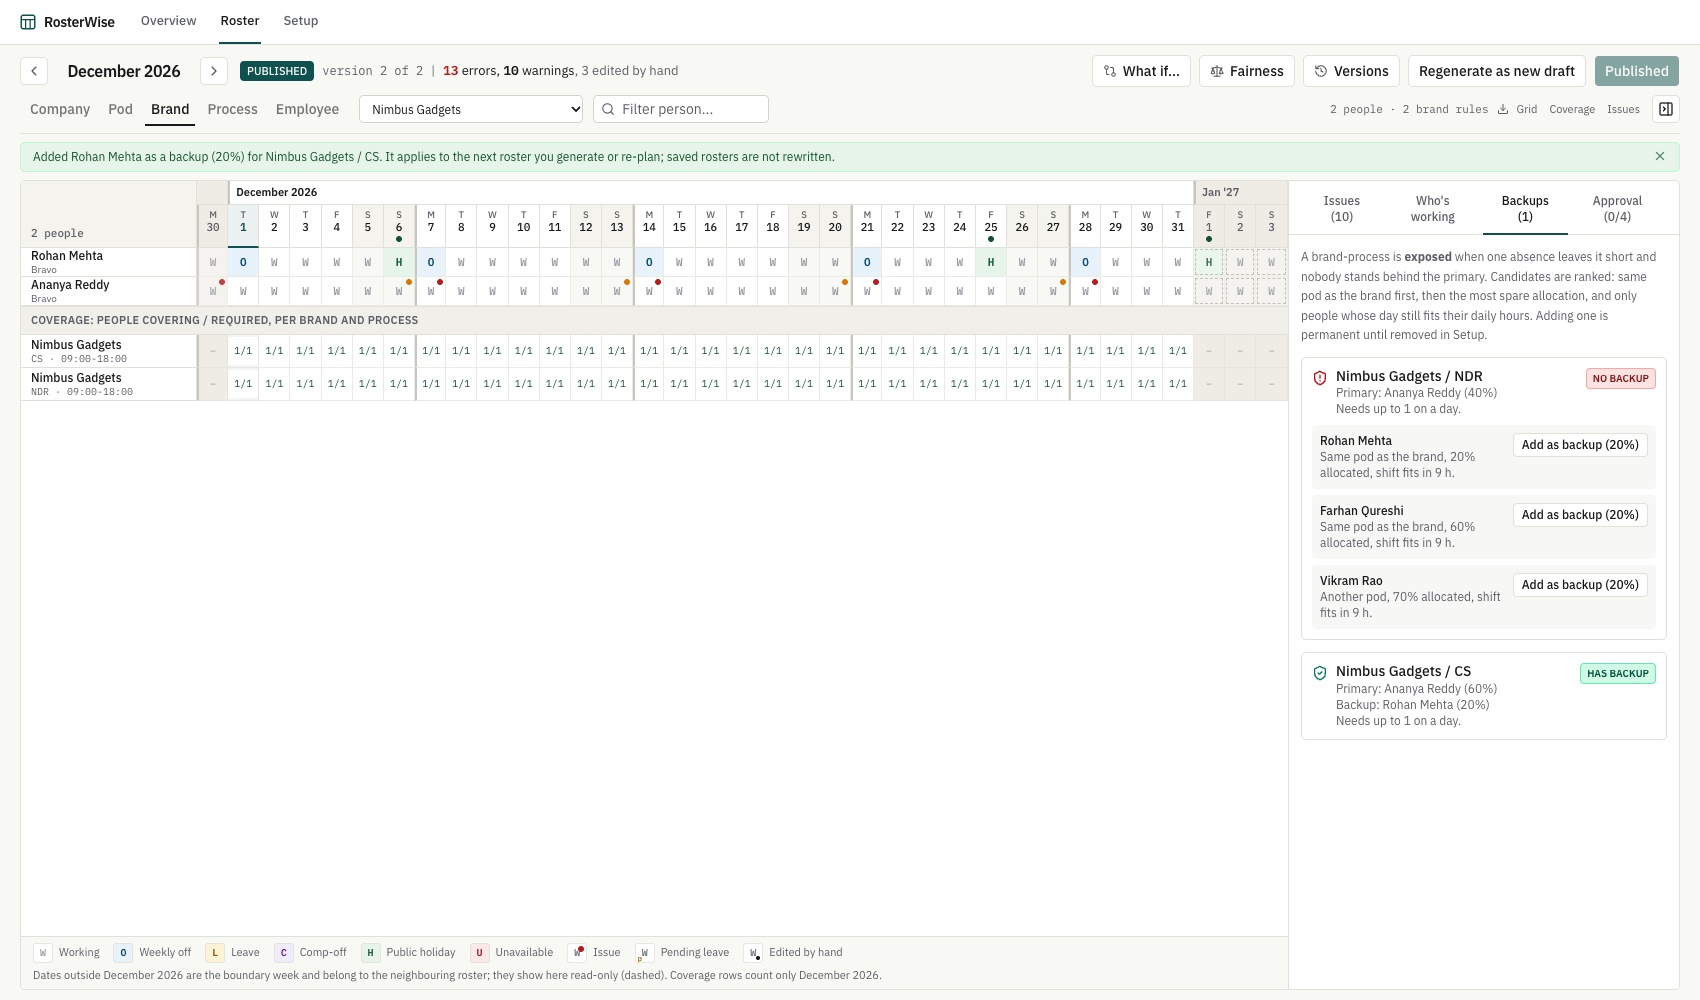
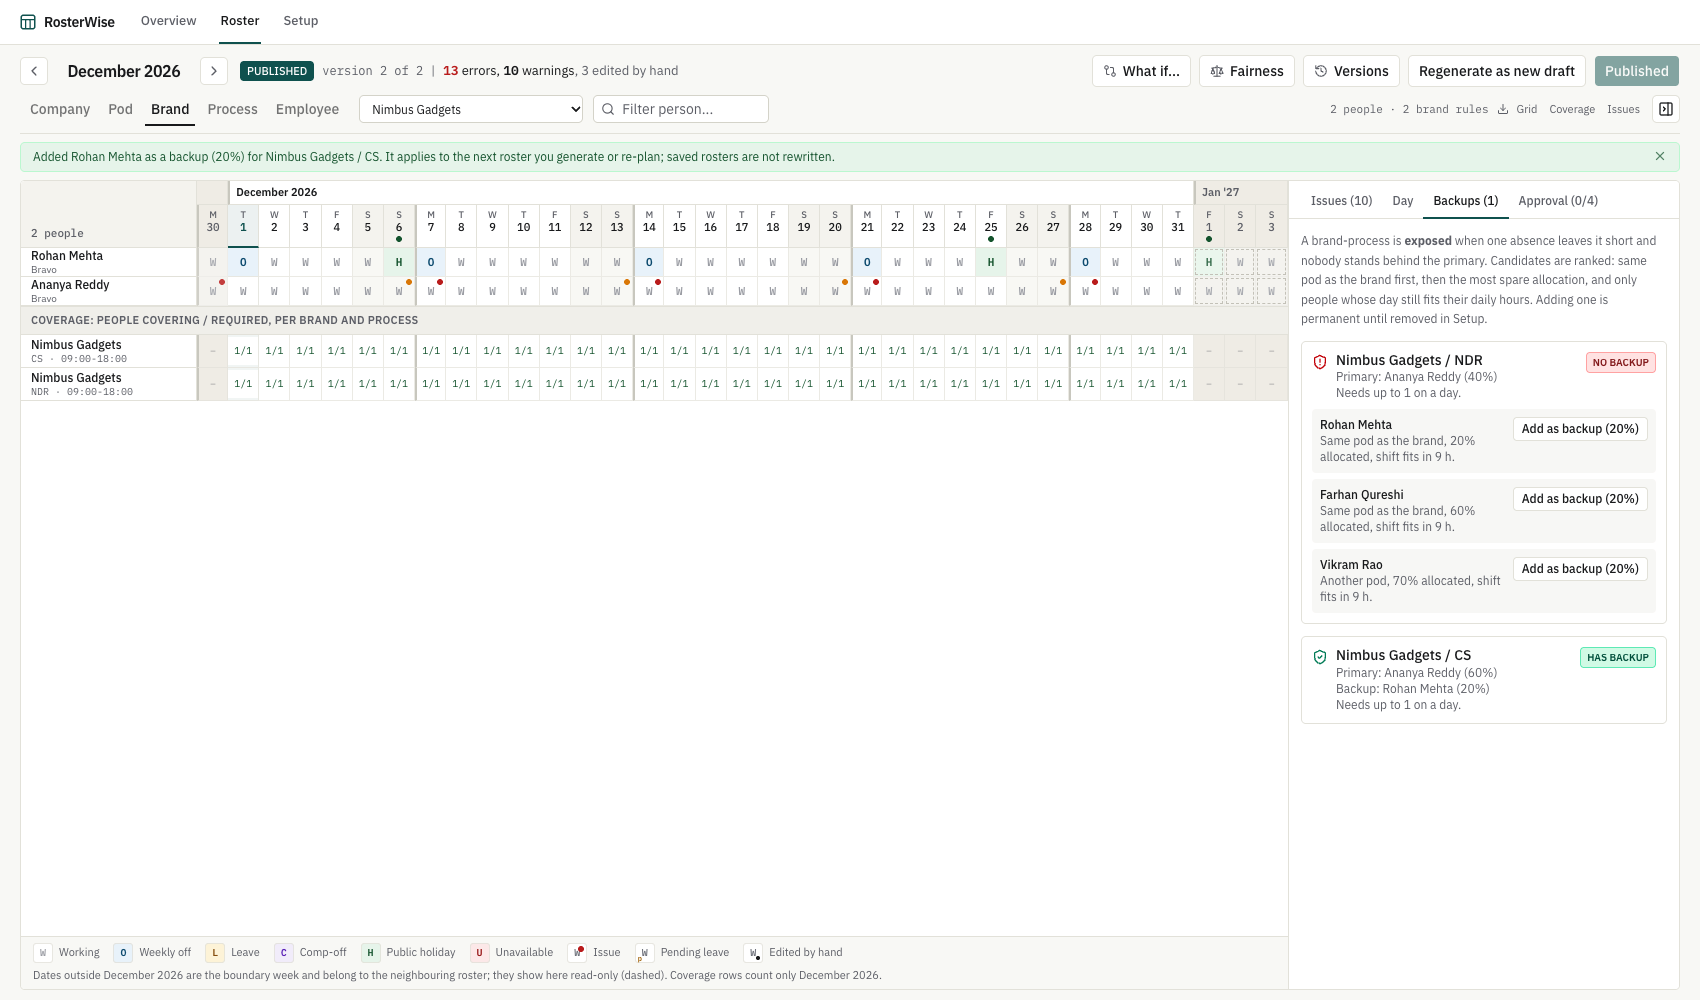
docs: P5 review request, assumptions 57 to 62, env example, refreshed walkthrough output

Changed region(s): [[0.7482, 0.186, 0.9976, 0.744], [0.9041, 0.62, 0.9976, 0.682]]

diff --git a/docs/reviews/REQUEST-P5.md b/docs/reviews/REQUEST-P5.md
@@ -1,0 +1,107 @@
+# Review request: P5 Optional features
+
+All six, in the CLAUDE.md order, plus the three P4 review notes (done first). Nothing was cut, and P6 has not been touched.
+
+## Done
+
+**P4 review notes (non-blocking, folded in):**
+
+1. **`REASSIGN_FROM_POD` is permanent, and now says so.** The confirm text names the person, brand-process and share and
+   says it "stays after this roster and changes future months until you remove it in Setup, Assignments". The assignment row
+   carries a note ("Added from roster 2026-12 v1 (suggestion REASSIGN_FROM_POD for ...). Remove it here if it is no longer
+   needed."), shown in a new Note column. Tested.
+2. **One counter definition.** The tab says `Issues (n)` and the filter says `n of m to review`, both counting ERROR and WARNING.
+3. **Regenerate on a published roster** reads "Regenerate as new draft" with "Creates draft version N+1; published version N
+   stays in history."
+4. The walkthrough docs now say to run it against `pnpm build && pnpm start` (done below).
+
+**P5.1 Backup recommendations.** `src/engine/backup.ts` (`backupReport`, pure): per brand-process, who is primary and backup,
+a status (`EXPOSED`, `SHARED`, `COVERED_BY_BACKUP`, `NO_STAFF`) and, for exposed ones, ranked candidates (same pod first, then
+least allocated, only active people with spare allocation whose day still fits their daily hours). A **Backups** tab on the
+roster page shows it for the brand-processes in the current view with a one-click "Add as backup (20%)".
+
+**P5.2 CSV export per view.** A read-only route (`/roster/<month>/export?what=grid|coverage|issues|fairness&kind=&value=`),
+linked from the view bar, built from the same view rules as the screen. RFC 4180 quoting and spreadsheet-formula
+protection (`=`, `+`, `-`, `@` prefixed with an apostrophe). Safe download names, validated query.
+
+**P5.3 Fair weekly-off distribution.** `src/engine/fairness.ts`, `/roster/<month>/fairness`: per person Sundays and public
+holidays worked and off, premium days, working days, and the spread over the people who **could** be asked (so closed-on-Sunday
+brands do not flatter it). CSV export of the same.
+
+**P5.4 Version comparison.** `compareVersions` + `/roster/<month>/versions`: pick any two versions, see changed cells and issues
+added or resolved (the What-if diff component, reused), in either direction.
+
+**P5.5 AI explanation.** An **Explain** button on each issue. The server sends only that issue's own fields to the Messages API
+(`claude-sonnet-5-5`), with the key in a header; with no key, on any error, a timeout (15 s) or an empty answer it returns the
+engine's deterministic explanation, labelled "Standard explanation" with the reason.
+
+**P5.6 Pod-lead approval.** An **Approval** tab: each pod's lead signs off their pod's part of a draft version; the sign-off is
+cleared if any of the pod's cells is edited and absent on a new version. Publishing requires every pod approved **only when
+`REQUIRE_POD_APPROVAL` is set** (off by default).
+
+Schema: `Assignment.note`, `PodApproval`. No change to the scheduling or validation rules.
+
+## How to verify
+
+```
+pnpm lint && pnpm format:check && pnpm typecheck && pnpm test && pnpm build
+pnpm db:seed && ANTHROPIC_API_KEY= pnpm start                  # terminal 1: production build, AI key blanked
+WALKTHROUGH_EXPLAIN=fallback pnpm walkthrough:p4               # terminal 2
+```
+
+## Verification output
+
+`pnpm lint`, `pnpm format:check`, `pnpm typecheck`, `pnpm build` exit 0. `pnpm test`: **19 files, 243 tests passed** (was 209).
+`pnpm walkthrough:p4` against the production server, from a fresh seed: `WALKTHROUGH OK`, `browser errors: 0`, 0 errors in the server
+log. Output: `docs/reviews/p4/walkthrough-output.txt`. New screenshots: `19-p5-backup-recommendations`, `20-p5-backup-added`,
+`21-p5-fairness`, `22-p5-version-comparison`, `23-p5-explain`, `24-p5-pod-approval` (in `docs/reviews/p4/`).
+
+What the walkthrough asserts for P5, in the browser:
+
+| Item | Asserted                                                                                                                                                                                                |
+| ---- | ------------------------------------------------------------------------------------------------------------------------------------------------------------------------------------------------------- |
+| 5.1  | Brand: Nimbus Gadgets CS reads "No backup"; one click adds Rohan Mehta as a backup; it now reads "Has backup"                                                                                           |
+| 5.2  | The export links carry the current view; grid, coverage and issues answer 200, `text/csv`, a descriptive file name, and the grid has 2 lines (header + Ananya), coverage 3 (header + 2 brand-processes) |
+| 5.3  | The fairness page lists 32 people with spreads, labels people with no brand open, and its CSV has 33 lines                                                                                              |
+| 5.4  | The versions page compares v2 with v1 by default, and both directions work from the form                                                                                                                |
+| 5.5  | Explain returns the standard explanation (key blanked), labelled as such                                                                                                                                |
+| 5.6  | A new January draft shows `Approval (0/4)`; one click approves Alpha and it reads `Approval (1/4)`                                                                                                      |
+
+### Are the new tests real? Mutation check
+
+Each change below was made on its own, the relevant tests run, then the file restored.
+
+| Mutation                                                      | Result                                                                                           |
+| ------------------------------------------------------------- | ------------------------------------------------------------------------------------------------ |
+| backup ranking ignores pod                                    | **survived my first tests**; added a case where another pod's person is less loaded; now 1 fails |
+| "exposed" off by one (`<` for `<=`)                           | 3 fail                                                                                           |
+| fairness stops treating a holiday Sunday as a holiday         | 3 fail                                                                                           |
+| CSV formula protection removed                                | 2 fail                                                                                           |
+| the AI request also sends an employee id                      | 1 fails (the test pins the exact set of keys)                                                    |
+| version comparison reads the two versions the wrong way round | 1 fails                                                                                          |
+| approval gate switched off                                    | 1 fails                                                                                          |
+| an edit no longer clears the pod's approval                   | 1 fails                                                                                          |
+
+## Deviations from CLAUDE.md
+
+- **P5.6 is not "required before publish" by default.** It is built and tested both ways, but the publish gate asks for it only when
+  `REQUIRE_POD_APPROVAL` is set, so the existing publish flow, its 40-odd tests and the demo are unchanged. Say if you want it on by default.
+- **The side-panel tab "Who's working" is now labelled "Day"** (with that as its tooltip) to fit four tabs on one line.
+- **`PodApproval` has no relation check that the approver is the pod lead.** There is no login to check against (see below).
+
+## Known gaps / risks (also ASSUMPTIONS 57 to 62)
+
+- **The live AI call was not exercised.** The tests inject `fetch` and pin the request (URL, headers, model, body keys); the
+  walkthrough ran with the key blanked. I did not spend your key or send even fictional issue text to an outside service without
+  being asked. One real call is a ten-second check once you want it.
+- **The AI action costs money on a public deployment.** A per-process cap of 10 calls a minute is a guard against a runaway
+  client, not cost control. **P6's passcode must guard `explainIssueAction`** (and I will make that part of the P6 test list).
+- **No approver identity.** The name in an approval is recorded, not verified; the P6 session supplies a server-side display name and
+  is where a "must match the pod lead" check belongs.
+- **Version comparison validates both versions with today's master data**, so an older version can read as having errors it was
+  not saved with (tested, ASSUMPTIONS 60). It compares plans under the same rules; it is not a snapshot of what each said.
+- **An added backup is permanent** until removed in Setup (noted on the row, ASSUMPTIONS 50 and 57). It applies to the next generation
+  or re-plan, not to saved rosters.
+- **Fairness counts "WORK" status**, so a backup-pool person rostered to work but covering nothing counts as working a Sunday.
+  They are labelled and left out of the spread, but they appear in the table.
+- Mobile and a full accessibility audit are still not done (as in P4).

diff --git a/docs/ASSUMPTIONS.md b/docs/ASSUMPTIONS.md
@@ -267,4 +267,40 @@ is recorded here as soon as it is made.
     never the only signal; markers: a dot for an issue on that day, `p` for pending leave (not applied), a small
     dot for an edit by hand.
 
+## Optional features (P5)
+
+57. **Backup recommendations (P5.1)** come from `backupReport` (engine, pure). A brand-process is EXPOSED when it has no
+    BACKUP and no more primaries than the most it ever needs on one day (so one absence is a gap), SHARED when there
+    are more primaries than that, COVERED_BY_BACKUP when a backup exists. Candidates (EXPOSED or unstaffed only) are
+    active people not already on it, with spare allocation (100 minus the sum of their assignments), whose daily
+    span including this shift fits their daily hours, ranked same pod as the brand first, then least allocated, then
+    name. A new backup takes 20% (less if that is all they have spare). "Add as backup" creates an ordinary BACKUP
+    assignment, noted as such, which applies to the next generation or re-plan.
+58. **CSV export (P5.2)** is a read-only GET (`/roster/<month>/export?what=grid|coverage|issues|fairness&kind=&value=`) of
+    the latest version, built by the same view rules as the screen (it ignores the person-name search box). Cells that
+    start with `=`, `+`, `-`, `@`, a tab or a carriage return are prefixed with an apostrophe so a spreadsheet reads
+    them as text.
+59. **Fairness report (P5.3)** counts in-month days: Sundays that are not public holidays, and public holidays (a
+    holiday Sunday counts as a holiday). "Worked" means status WORK, so a backup-pool person who is rostered to work
+    but covers nothing still counts. The spread (max minus min) is taken only over people who could be asked: assigned
+    to a brand-process that operates on at least one such day. Everyone else is listed, labelled "no brand open", and
+    left out of the comparison, so closed-on-Sunday brands do not flatter the numbers. Holidays worked across everyone
+    equal the comp-off credits earned (tested).
+60. **Version comparison (P5.4)** diffs the cells of two versions of a month and validates BOTH with today's master data,
+    so it compares plans under the same rules. The consequence, tested and deliberate: after an applied change
+    (which also approved a leave), the older version reads "works while on approved leave" where it was saved with
+    "pending leave" warnings. It is not a record of what each version said on the day it was saved.
+61. **The AI explanation (P5.5)** sends only the issue's own fields (code, severity, date, message, the engine's
+    explanation, and each suggestion's type and description): no roster, no other people, no ids, no leave data, and
+    never the key. Without `ANTHROPIC_API_KEY`, on any error, a timeout (15 s) or an empty answer, the deterministic
+    explanation is returned and labelled "Standard explanation" with the reason. A per-process cap of 10 calls a
+    minute is a guard against a runaway client, **not** cost control: on a public deployment the real control is the
+    P6 passcode, which must also guard this action. The live API call is not exercised by the tests (they inject
+    `fetch`).
+62. **Pod-lead approval (P5.6)** is per pod, per DRAFT version, cleared when any of that pod's cells is edited, and absent
+    on a new version. Publishing requires every pod with an active employee only when `REQUIRE_POD_APPROVAL` is set
+    (off by default, so existing flows are unchanged). **There is no login, so the approver's name is recorded, not
+    verified**: the P6 passcode session supplies a display name from the server, and a check that it matches the pod
+    lead belongs there.
+
 _More assumptions are added per phase._

diff --git a/docs/PROGRESS.md b/docs/PROGRESS.md
@@ -10,7 +10,7 @@ PDF/CLAUDE.md mismatches found so far: none.
 | P2 Engine                       | PASSED, pushed, CI green ([run 45666301496](https://github.com/Gurpreet-pixel-hue/rosterwise/actions/runs/45666301496)) | `docs/reviews/REQUEST-P2.md` | `REVIEW-P2.md` PASS (round 2) |
 | P3 Persistence & server actions | PASS (round 2)                                                                                                          | `docs/reviews/REQUEST-P3.md` | `REVIEW-P3.md` PASS (round 2) |
 | P4 UI                           | PASS                                                                                                                    | `docs/reviews/REQUEST-P4.md` | `REVIEW-P4.md` PASS           |
-| P5 Optional features            | Not started                                                                                                             |                              |                               |
+| P5 Optional features            | All six built; ready for Opus review                                                                                    | `docs/reviews/REQUEST-P5.md` | `docs/reviews/REVIEW-P5.md`   |
 | P6 Deploy & docs                | Not started                                                                                                             |                              |                               |
 
 ## Decisions log
@@ -47,3 +47,4 @@ PDF/CLAUDE.md mismatches found so far: none.
 - **Two scaffold bugs found by looking at the screenshots:** `--font-sans: var(--font-sans)` was circular, and the Geist variables sat on `<body>` while `font-sans` is applied on `<html>`, so the whole UI fell back to a serif font. Fixed in `globals.css` and `layout.tsx`.
 - **`pnpm walkthrough:p4`** (`scripts/p4-walkthrough.ts`, Playwright driving the installed Chrome) walks the four demo scenarios, the boundary week, the publish gate and setup CRUD, asserts what it sees, and writes the screenshots in `docs/reviews/p4/`. Run it against a production build (`pnpm db:seed && pnpm build && pnpm start`), not `pnpm dev`, which can throw a dev-only 500 on a cold page compile. It is not part of CI (needs a browser).
 - **P4 passed; UI redesigned afterwards** (Owner): a new Overview home page (stats, per-pod errors, needs-attention list), pod-grouped grid rows with a person filter, a collapsible side panel and a green accent. Re-verified on the redesign: lint, format, typecheck, 209 tests, production build, and `pnpm walkthrough:p4` against `pnpm start` (`WALKTHROUGH OK`, 0 browser errors, 0 server errors in the log); the 19 screenshots in `docs/reviews/p4/` were regenerated.
+- **P5 (optional features), all six in CLAUDE.md order:** backup recommendations (engine `backupReport`, a Backups tab with one-click add), CSV export per view, the weekly-off fairness report (`/roster/<month>/fairness`), version comparison (`/roster/<month>/versions`), the AI explanation button (deterministic fallback, privacy-scoped payload), and pod-lead approval (Approval tab; the publish gate needs it only with `REQUIRE_POD_APPROVAL`). The three P4 review notes were folded in first. Schema gained `Assignment.note` and `PodApproval`.
